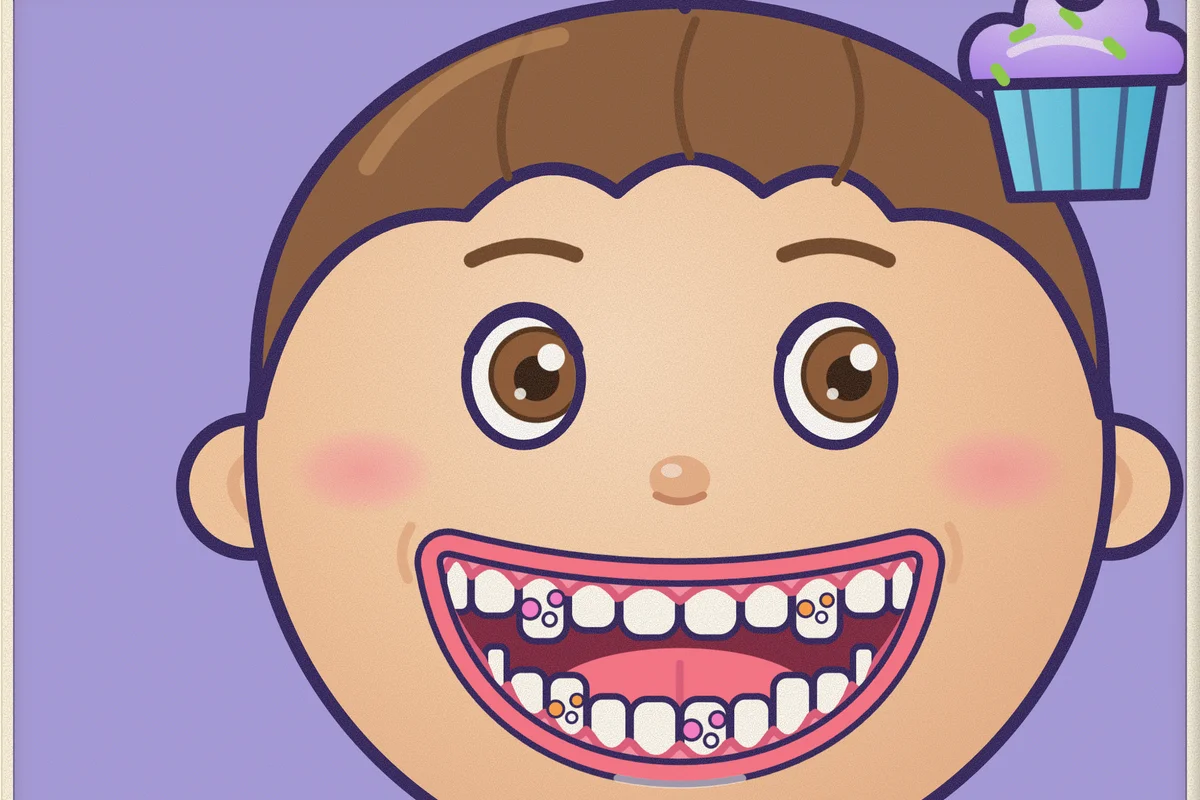
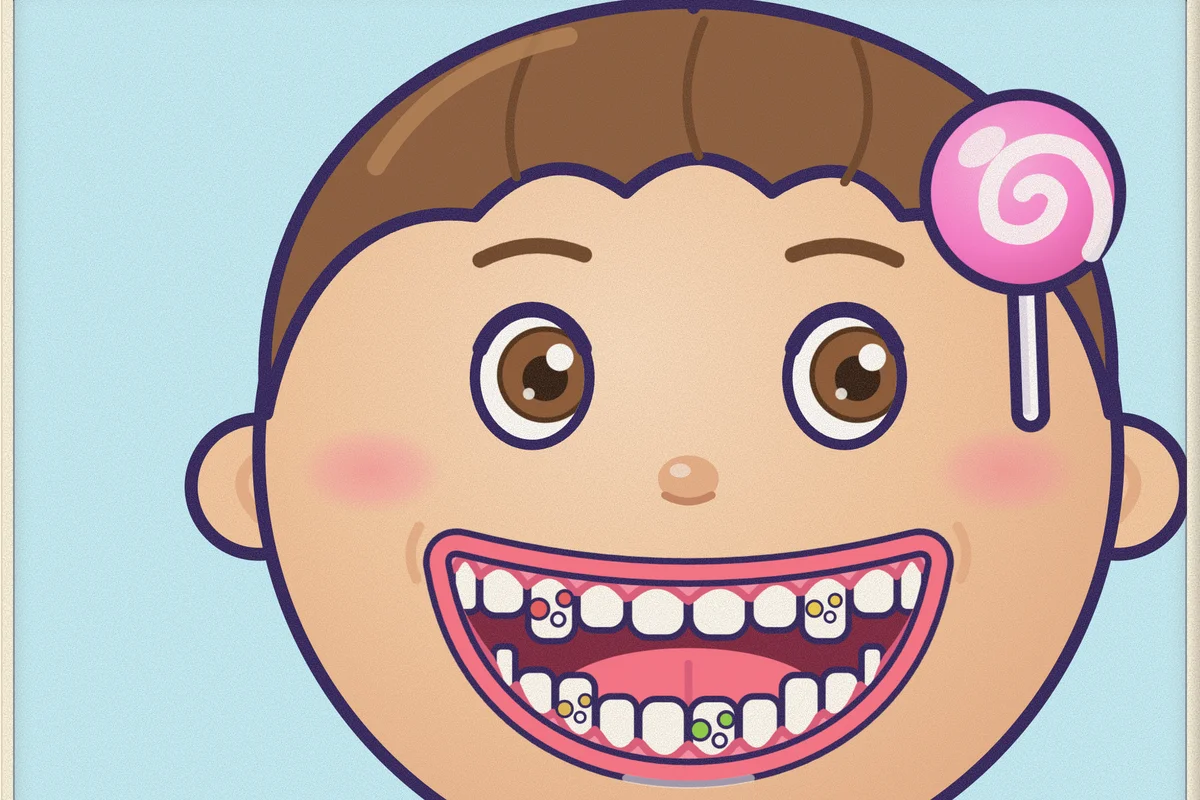
Zähne putzen: the apple, banana and lollipop appear whole, never cut off at the screen's edge

diff --git a/src/games/teeth/origin.tsx b/src/games/teeth/origin.tsx
@@ -7,7 +7,7 @@ import type { Daytime } from "@/lib/days";
 import { clothesOf, PyjamaPattern, topFill } from "./clothes";
 import { PICTURE, TOOTH_ARCS } from "./jaw";
 import { BROW, Ear, EyeBall, EyeLid, eyeOpening, FACE, HAIR, Hair, type HeadMap, INK, Iris, LASHES, LIP, Nose, SKIN_SHADE, SkinGradient } from "./face";
-import { fitBox, FRAME_CLIP, FrameStroke, Monster, screenFrame, STAIN, STAIN_FILLS, useRoom, type Box } from "./mouth";
+import { fitBox, FRAME_CLIP, FrameStroke, Monster, screenFrame, STAIN, STAIN_FILLS, useRoom, type Box, type Room } from "./mouth";
 import { Piece, pictureSpace } from "./piece";
 
 // Before anything else, a short story of where the sugar monsters come from:
@@ -34,7 +34,7 @@ export const ORIGIN_MS: Record<OriginPart, number> = { sweets: 9600, grow: 6000 
 const { width: W } = PICTURE;
 /**
  * How the story is framed before the camera moves in on the mouth: what has to fit between heading and controls (the
- * screen shows more sky round it) and where the sweets appear. On a screen not much wider than tall the whole head fits with the sweets in the corners above it; on a
+ * screen shows more sky round it) and where the sweets appear. On a screen not much wider than tall the whole head fits with the sweets beside its top; on a
  * wide one (a phone on its side) the face from the brows to the chin, the sweets beside it at eye level, so the face and
  * its mouth show bigger (user feedback, November 2026: the mouth should show bigger).
  */
@@ -44,10 +44,11 @@ interface Framing {
 }
 const HEAD_FRAMING: Framing = {
   focus: { x: 40, y: 34, width: 360, height: 340 },
+  // Out beside the head's top, as far as the screen shows them whole (`sweetPlace` moves them in where it is narrower).
   sweets: [
-    { x: 372, y: 78 },
-    { x: 68, y: 78 },
-    { x: 372, y: 78 },
+    { x: 440, y: 110 },
+    { x: 0, y: 110 },
+    { x: 440, y: 110 },
   ],
 };
 const FACE_FRAMING: Framing = {
@@ -60,8 +61,33 @@ const FACE_FRAMING: Framing = {
 };
 /** Both framings, for the tests. */
 export const FRAMINGS = { head: HEAD_FRAMING, face: FACE_FRAMING };
+/**
+ * How far a sweet reaches round its point while it is seen there, in picture units: grown to 1.5, floating up, turned,
+ * and lifted before it flies (`teeth-origin-sweet`) – the widest of the apple, the banana and the lollipop.
+ */
+export const SWEET_REACH = { left: 56, right: 56, up: 82, down: 88 };
+/** Room kept between a sweet and the edge of the free room, in screen px: the mirror's frame lies there (`FRAME_PX`). */
+const SWEET_EDGE_PX = 24;
+/**
+ * Where a sweet appears: its framing's point, moved in just as far as needed for the whole sweet to show inside the free
+ * room (`seen`, picture units) – it once appeared half cut off by the screen's edge (user feedback, November 2026).
+ */
+export function sweetPlace(want: { x: number; y: number }, seen: Box, unit: number) {
+  const edge = SWEET_EDGE_PX * unit;
+  const fit = (at: number, from: number, to: number) => (from > to ? (from + to) / 2 : Math.min(Math.max(at, from), to));
+  return {
+    x: fit(want.x, seen.x + edge + SWEET_REACH.left, seen.x + seen.width - edge - SWEET_REACH.right),
+    y: fit(want.y, seen.y + edge + SWEET_REACH.up, seen.y + seen.height - edge - SWEET_REACH.down),
+  };
+}
+/** The free room between heading and controls in picture units, for a picture showing `box` at `unit`. */
+export function freeSeen(room: Room | null, box: Box, unit: number): Box {
+  if (!room) return box;
+  const { free } = room;
+  return { x: box.x + free.x * unit, y: box.y + free.y * unit, width: free.width * unit, height: free.height * unit };
+}
 /** The face's framing where it shows the picture clearly bigger than the head's, else the head's. */
-function framingFor(room: Parameters<typeof fitBox>[0]) {
+export function framingFor(room: Parameters<typeof fitBox>[0]) {
   const [face, head] = [fitBox(room, FACE_FRAMING.focus), fitBox(room, HEAD_FRAMING.focus)];
   return face.unit * 1.05 < head.unit ? { framing: FACE_FRAMING, ...face } : { framing: HEAD_FRAMING, ...head };
 }
@@ -575,6 +601,8 @@ export function Origin({
   const scene = useRef<HTMLDivElement>(null);
   const room = useRoom(scene, free);
   const { framing, box, unit } = framingFor(room);
+  const seen = freeSeen(room, box, unit);
+  const places = framing.sweets.map((want) => sweetPlace(want, seen, unit));
   const frame = screenFrame(box, unit);
   const bottom = box.y + box.height;
   const sweets = part === "sweets";
@@ -837,7 +865,7 @@ export function Origin({
             })}
           </Piece>
 
-          {/* Each sweet appears big in a top corner, floats a moment, then flies into the mouth in an arc: it lifts a
+          {/* Each sweet appears big beside the face (`sweetPlace` keeps it whole on the screen), floats a moment, then flies into the mouth in an arc: it lifts a
               little and swoops down, turning towards where it goes, and is squeezed as the teeth bite (`teeth-origin-sweet`).
               Its pieces lie round the picture's corner (0, 0), where the sweet is drawn and from where the keyframes
               move it: the outer one across (`-x`), the inner one up and down, so the two make the arc. */}
@@ -850,11 +878,11 @@ export function Origin({
                 style={
                   {
                     "--arrive": `${ARRIVE_MS[i]}ms`,
-                    "--sx": `${framing.sweets[i].x}px`,
-                    "--sy": `${framing.sweets[i].y}px`,
+                    "--sx": `${places[i].x.toFixed(1)}px`,
+                    "--sy": `${places[i].y.toFixed(1)}px`,
                     "--bx": `${BITE.x}px`,
                     "--by": `${BITE.y}px`,
-                    "--tilt": `${framing.sweets[i].x > W / 2 ? -18 : 18}deg`,
+                    "--tilt": `${places[i].x > W / 2 ? -18 : 18}deg`,
                   } as CSSProperties
                 }
                 over={

diff --git a/src/games/teeth/story.test.ts b/src/games/teeth/story.test.ts
@@ -1,7 +1,8 @@
 import { describe, expect, test } from "bun:test";
 import { TEETH_PER_SIDE } from "./jaw";
 import { PRELUDE_TEXTS } from "./lines";
-import { FRAMINGS, MOUTH, STORY_TEETH } from "./origin";
+import { FACE } from "./face";
+import { FRAMINGS, framingFor, freeSeen, HEAD, MOUTH, STORY_TEETH, SWEET_REACH, sweetPlace } from "./origin";
 
 // The story's mouth once showed six teeth above and four below, and the face stood small in the middle of a wide
 // screen (user feedback, November 2026: show the right number of teeth and the mouth bigger).
@@ -30,12 +31,33 @@ describe("the story's teeth", () => {
 });
 
 describe("the story's framings", () => {
-  test.each(Object.entries(FRAMINGS))("%s: every sweet appears inside what is framed", (_, { focus, sweets }) => {
-    for (const { x, y } of sweets) {
-      expect(x).toBeGreaterThanOrEqual(focus.x);
-      expect(x).toBeLessThanOrEqual(focus.x + focus.width);
-      expect(y).toBeGreaterThanOrEqual(focus.y);
-      expect(y).toBeLessThanOrEqual(focus.y + focus.height);
+  // A sweet grows to one and a half times its size where it appears, and once stood so near the screen's edge that it
+  // was cut off there (user feedback, November 2026): it appears whole, inside the free room and clear of the frame.
+  // The free rooms are the ones measured in the preview (beside the controls' strip, or above it held upright).
+  const screens = {
+    "phone 844×390": { width: 844, height: 390, free: { x: 111, y: 10, width: 727, height: 370 } },
+    "tablet 1024×768": { width: 1024, height: 768, free: { x: 156, y: 10, width: 862, height: 748 } },
+    "computer 1280×720": { width: 1280, height: 720, free: { x: 150, y: 10, width: 1124, height: 700 } },
+    "computer 1920×1080": { width: 1920, height: 1080, free: { x: 190, y: 10, width: 1724, height: 1060 } },
+    "upright 390×844": { width: 390, height: 844, free: { x: 6, y: 10, width: 378, height: 740 } },
+  };
+  test.each(Object.entries(screens))("%s: every sweet appears whole, never at the screen's edge", (name, room) => {
+    const { framing, box, unit } = framingFor(room);
+    const seen = freeSeen(room, box, unit);
+    for (const want of framing.sweets) {
+      const at = sweetPlace(want, seen, unit);
+      const edge = 20 * unit;
+      expect(at.x - SWEET_REACH.left).toBeGreaterThanOrEqual(seen.x + edge);
+      expect(at.x + SWEET_REACH.right).toBeLessThanOrEqual(seen.x + seen.width - edge);
+      expect(at.y - SWEET_REACH.up).toBeGreaterThanOrEqual(seen.y + edge);
+      expect(at.y + SWEET_REACH.down).toBeLessThanOrEqual(seen.y + seen.height - edge);
+      // Held sideways it stays clear of the child's eyes: its round body (about 45 units across its middle at its
+      // biggest) never reaches an eye.
+      if (name.startsWith("upright")) continue;
+      for (const s of [-1, 1]) {
+        const eye = { x: HEAD.x + s * FACE.eyes.x, y: HEAD.y + FACE.eyes.y };
+        expect(Math.hypot(at.x - eye.x, at.y - eye.y)).toBeGreaterThan(45 + FACE.eyes.ry);
+      }
     }
   });
 

diff --git a/src/games/teeth/CLAUDE.md b/src/games/teeth/CLAUDE.md
@@ -2,7 +2,7 @@
 
 Route `/zaehne/`.
 
-Brushing timer in seven steps, as long as its song (no choice of minutes: the song's own length, about two minutes), in KAI order (chewing surfaces, outside, inside). It starts with a short story of where the sugar monsters come from (`origin.tsx`, about 15 s, can be turned off): a child's face fills the screen (on a wide one from the brows to the chin, `framingFor`), a red apple, a half-peeled banana and a lollipop (the same at any time of day, user request, November 2026: everyday food leaves sugar too, X-19) float big beside it or in the corners for a moment, then fly in an arc into the smiling mouth one by one, are bitten (a few bits break off and fall past the chin), chewed and leave sugar crumbs on the teeth, then each crumb grows into a monster („Aus dem Zucker wachsen kleine Zuckermonster.“, `PRELUDE_TEXTS.grow` – the same morning and evening: no sun or moon crosses the sky and the sky keeps its one calm colour, so the story says nothing of day or night, user request, November 2026), and the camera moves in from the head to the mouth (`.origin-camera`, a CSS zoom to `MOUTH_FOCUS`). The story's teeth stand in a scalloped gum too. The story, the sink and the mirror are one camera looking round the bathroom (`scenes.tsx`): from the face down to the sink, up into the mirror, and down again to tidy up – the old picture slides out while the new one slides in, never a cut. The child is happy about every sweet: its eyes follow it to its corner and down into the mouth, its brows go up; while it chews its eyes close happily and its cheeks glow. Then the sink (`prep.tsx`, can be turned off): a hand on a sleeve widening towards the viewer, coming up open and closing round the handle (its wrist turned against the brush, so the arm always comes up from below and in front of the basin, never out of it) takes the brush (white and blue tufts, rubber grip) out of its cup (it clinks), the tube squeezes a pea-sized, striped dab of toothpaste onto the middle of the bristles; a chrome tap stands behind the basin. The sounds of the story and the sink are `Cue`s (`ORIGIN_CUES`, `PREP_CUES`, ms from the start of their part, `cues.ts`) that `TeethPlay` plays when the clock passes them and skips on a jump: a cheer (`yay`) when the food comes, the apple's crunch, a soft bite (`munch`) into the banana, the lollipop's crunch (`lolly`), `chew` after each, „Mmmh“ (`yum`) after the last, the brush `clink`ing in its cup – CC0 recordings in `src/lib/sounds/` with a synth fallback, loaded before the prelude. `prelude.test.ts` checks every cue lies inside its part and every recording has its file. A small 3D mouth model (`jaw.ts`) shows each step from the right angle – mouth open or teeth together, head turned to the side, the jaw being brushed tipped to show its top or tongue side. Arrows on the lips show when to open or close the mouth. Right after the toothpaste, before the mirror is seen, comes the lion (X-26, `lion.tsx`, one scene of twelve bars in two phases of the bar; user requests, November 2026). First the lion's phase (prelude part `lion`, two bars): the camera fades to a lion (drawn in SVG for now, a painted one may replace it) close up, then draws back to the story's child beside it (`StoryHead`, `StoryShoulders` in `storyChild.tsx`, the same child the spitting shows), about as big as the lion and already in its lion costume – the mane is on from the start. Then the roaring's phase (prelude part `roar`, ten bars): the voice asks the child to roar along („Now roar with the lion! Really loud – three times!“, `PRELUDE_TEXTS.roar`), and three round marks appear in the sky between the two heads (`MARKS`), pale rings with a faint lion's face – how often. Then three rounds (`ROUNDS`): the next mark fills from its middle over four beats, a soft note on each (`playCountNote`), and when it is full both mouths are wide open and both roar together (`ROAR_CUES`), the mark turns into a lit roaring lion's face and stays lit, and soft waves go out from both mouths – when; no numbers are counted down. Each round is louder (`gain`) and a little longer (`open`, and its own longer recordings) than the one before. The six roars – the lion's and the child's of each round, `lion-roar-1…3` and `child-roar-1…3` – are ElevenLabs sound effects (made 27 November 2026, `src/lib/sounds/README.md`: the lion's at about −18 LUFS, the child's a little under at −20, each round's as long as its mouths stay open), played at the round's loudness (`playRecorded`'s `volume`); the synthesized `playRoar` and `playLittleRoar` sound only where a recording could not load. After the last roar the child's mouth stays open. Only then the mirror (prelude part `monsters`, nine beats plus the 3, 2, 1): the mouth is already wide open from the front (`ROAR_VIEW` in `steps.ts`), the sugar monsters on the teeth and the voice's „Oh no, there they are!“, with no arrows on the lips, and it stays open through the countdown, so the first step, also open, only tips the lower jaw – the child in front of the screen roars along and its mouth is open before the brush comes. A song loading late is waited for before the lion (`waitAt`), so lion, roaring, mirror, 3, 2, 1 and the song run straight on. The teeth grow out of the gum: the gum line (`GUM_LINE` in `jaw.ts`) rises into a papilla between neighbouring teeth and arches down over each crown, each tooth's faces end there, and the gum's walls reach a little over the crown's foot (`GUM_OVERLAP`) with a darker rim (`GUM_RIM`); each tooth is drawn between its own piece of gum's top and its walls, so it stands in the gum. The gum's cheek-side wall reaches far past the lips (`GUM_CHEEK`), which cut it off, and the mouth's inside round the teeth is the gum's own pink (`CHEEK_INSIDE` in `mouth.tsx`), so the gum runs on into the cheek right up to the lips: the dark of the mouth (`MOUTH_DARK`) shows only in the opening between the rows of an open mouth (`cavityPath`). The brush is a small 3D model too (`brush.tsx`: white and light-blue bristle tufts with a longer tip row, a rounded head, a thin neck, a green rubber grip; its foam grows over the first half minute, and the gum round the teeth brushed foams too: see the rule on toothpaste foam), held as dentists teach it for each side (flat on the chewing surfaces, in the cheek pocket with the handle out of the corner of the mouth, tipped towards the gum inside) and glides along the row scrubbing, circling or wiping from gum to tooth. The brush is a layer of its own above the mirror (`.brush-layer`, an HTML layer with its own svg): React draws it only when it reaches the next tooth or turns, and the scrubbing, circling and wiping are CSS animations of that layer (`brush-swing`, `brush-wipe`), so a phone only moves a finished picture. There is no text on the picture at all, before, while or after brushing: only the picture, the controls (pause, „Von vorn“ – drawn signs, `ControlIcon`), the progress bar and the time right next to it (`.teeth-time`, hidden on narrow screens), all on one slim, quiet strip of paper (`.teeth-controls`), the part running now bigger with a golden ring: on a screen wider than tall it stands along the left edge under the ✕ with the bar running from top to bottom (`seekFromPointer` reads the bar's direction), so the mouth gets the whole height beside it; only held upright it lies along the bottom. The progress bar shows the routine's six phases apart (user feedback, November 2026), each with its symbol beside it: eating sweets (the story, lilac, the sweet), getting the brush with its toothpaste (the sink, blue, the tube), the lion (orange, the painted lion's head `loewe`), roaring with it (orange, the painted roaring lion `bruellen`; the open mouth in the mirror with the monsters and its 3, 2, 1 belong to it), the brushing itself – its seven steps in a green frame of their own (`.teeth-brushing`), the toothbrush riding along them to the clean tooth at its end – and putting the brush away (cheer and tidying up, blue like the sink, the cup) (`preludeTiles`). On a screen wider than tall the two buttons stand side by side on top, the symbols in one column left of the bar, the grooves in one lane. The time before the brushing has a clock of its own in the same place: while it runs the time shows how long until the brushing starts (lilac pill), then the brushing time left. Sugar monsters sit on every tooth not brushed yet (only where the lip opening shows the tooth, see `insideBy` in `jaw.ts`), from the first look in the mirror, after the lion; the ones to brush now dance like jelly to the song (`teeth-monster-jelly`: squashed on each beat), the next one ducks and shivers (`teeth-monster-cower`), and each dissolves as the brush reaches it: for a beat squeezed flat under the brush so it bulges out past the head on both sides (`squeezedBy`), then stretched upwards, blurring and fading, while it falls apart from the top down into sugar grains in its colour and foam bubbles that drift off and melt (`MonsterDust`, `teeth-monster-dissolve`, `teeth-dust`, three beats each), silently: only the song plays while brushing. The mirror (and the story and the sink before it) fills the whole screen behind the heading and the controls: `useRoom` measures `.teeth-room`, the free part between them, and `fitBox` (`mouth.tsx`) zooms so what matters just fits there and the rest of the screen shows more face or wall around it. For the mouth that is the lips with the arrows on them (`mouthFocus`), taken from the view of the moment, so a closed mouth or one seen from the side zooms in as far as an open one; the frame keeps its thickness in px. The song always plays, no tapping needed, keeps the screen on; arrow keys skip parts (on the dev server ← and → jump five seconds back or on instead, held too, anywhere in the game: `DEV_SKIP_MS`, user request, November 2026; ↑ and ↓ still skip parts), Space, the pause button next to the progress bar or a tap anywhere on the picture pauses (a tapped monster only giggles; user request, November 2026), „Von vorn“ beside it starts again from the story, and tapping or dragging on the progress bar jumps to the start of the section under the finger – a part of the prelude, a step, or the end's cheer, spitting and tidying (`sectionStart` in `seekBar.ts`; also while paused; the bar sits above the pause screen). At the end (`Ending` in `TeethPlay.tsx`) it is unmistakable that the brushing is done: the camera draws back to the whole laughing head (`faceFocus`, blended from the lips by `blendBox`), its teeth shining bright with white glints coming and going on them, a fanfare and children cheering (`cheer`) for two bars; then the mirror shows the child leaning over the basin (`spit.tsx`, X-18, two bars): its lips purse, a blob of the foam falls into the basin with a soft „ptü“ (`playSpit`, `SPIT_CUES`) and lands there as a flat splat, the foam on the gum gone with it – no cup of water to rinse the mouth, since the fluoride should stay on the teeth; then the sink once more (`Prep` part `tidy`, 16 beats): the foamy brush is scrubbed under the running tap until the foam is gone, goes back into its cup with a rattle and a clink, and the hand lets go, with twinkles round the cup (`PREP_CUES.tidy`, played by the end's clock like the prelude's); the controls and the bar stay through the cheer, the spitting and the tidying, the bar's last phase, so a grown-up can jump there too; then the grin again with the daytime's goodbye (spoken), the week chart's new star and the buttons, on a sheet of paper of their own (`.teeth-end`: the week above the trophy and „Menü“, everything on it sized by the sheet's width, `cqw`) – on a wide screen the head fills the left half and the sheet stands on the right, held upright it lies under the head – nothing else beside them (a cheering fox family stood there and was taken out, decoration a child wanted to tap, user feedback, November 2026). → skips to the buttons, Space starts again. The book on the shelf starts the brushing at once, with no start screen – its clock stands at the start (`held`, not paused) until the book lies open (`usePageStill`); ✕ and Esc go back to the shelf. Settings (`tinytaps.teeth.v3`) are which phases of the bar are shown – eating sweets (`origin`), getting the brush (`prep`) and putting it away (`tidy`: the spitting, rinsing and putting back), each switched on its own, the brushing to the song always (a locked row, roaring like a lion and 3, 2, 1 with it) – and the week chart, changed while playing behind ⚙ at the end of the strip of controls, right by the bar (`PlayOptions inline`, held like ✕; user request, November 2026). The phases before the brushing are taken at the start of each brushing so the clock never jumps: switched while that prelude still runs, the brushing starts again with them, later they apply to the next one; putting the brush away follows the switch until the brushing is done. Left out, the cheer at the clean grin still comes, ending the brushing's frame at its clean tooth, and then the buttons. Sounds always play and there is no read aloud (root `CLAUDE.md`).
+Brushing timer in seven steps, as long as its song (no choice of minutes: the song's own length, about two minutes), in KAI order (chewing surfaces, outside, inside). It starts with a short story of where the sugar monsters come from (`origin.tsx`, about 15 s, can be turned off): a child's face fills the screen (on a wide one from the brows to the chin, `framingFor`), a red apple, a half-peeled banana and a lollipop (the same at any time of day, user request, November 2026: everyday food leaves sugar too, X-19) float big beside it for a moment, always whole on the screen (`sweetPlace`), then fly in an arc into the smiling mouth one by one, are bitten (a few bits break off and fall past the chin), chewed and leave sugar crumbs on the teeth, then each crumb grows into a monster („Aus dem Zucker wachsen kleine Zuckermonster.“, `PRELUDE_TEXTS.grow` – the same morning and evening: no sun or moon crosses the sky and the sky keeps its one calm colour, so the story says nothing of day or night, user request, November 2026), and the camera moves in from the head to the mouth (`.origin-camera`, a CSS zoom to `MOUTH_FOCUS`). The story's teeth stand in a scalloped gum too. The story, the sink and the mirror are one camera looking round the bathroom (`scenes.tsx`): from the face down to the sink, up into the mirror, and down again to tidy up – the old picture slides out while the new one slides in, never a cut. The child is happy about every sweet: its eyes follow it to its corner and down into the mouth, its brows go up; while it chews its eyes close happily and its cheeks glow. Then the sink (`prep.tsx`, can be turned off): a hand on a sleeve widening towards the viewer, coming up open and closing round the handle (its wrist turned against the brush, so the arm always comes up from below and in front of the basin, never out of it) takes the brush (white and blue tufts, rubber grip) out of its cup (it clinks), the tube squeezes a pea-sized, striped dab of toothpaste onto the middle of the bristles; a chrome tap stands behind the basin. The sounds of the story and the sink are `Cue`s (`ORIGIN_CUES`, `PREP_CUES`, ms from the start of their part, `cues.ts`) that `TeethPlay` plays when the clock passes them and skips on a jump: a cheer (`yay`) when the food comes, the apple's crunch, a soft bite (`munch`) into the banana, the lollipop's crunch (`lolly`), `chew` after each, „Mmmh“ (`yum`) after the last, the brush `clink`ing in its cup – CC0 recordings in `src/lib/sounds/` with a synth fallback, loaded before the prelude. `prelude.test.ts` checks every cue lies inside its part and every recording has its file. A small 3D mouth model (`jaw.ts`) shows each step from the right angle – mouth open or teeth together, head turned to the side, the jaw being brushed tipped to show its top or tongue side. Arrows on the lips show when to open or close the mouth. Right after the toothpaste, before the mirror is seen, comes the lion (X-26, `lion.tsx`, one scene of twelve bars in two phases of the bar; user requests, November 2026). First the lion's phase (prelude part `lion`, two bars): the camera fades to a lion (drawn in SVG for now, a painted one may replace it) close up, then draws back to the story's child beside it (`StoryHead`, `StoryShoulders` in `storyChild.tsx`, the same child the spitting shows), about as big as the lion and already in its lion costume – the mane is on from the start. Then the roaring's phase (prelude part `roar`, ten bars): the voice asks the child to roar along („Now roar with the lion! Really loud – three times!“, `PRELUDE_TEXTS.roar`), and three round marks appear in the sky between the two heads (`MARKS`), pale rings with a faint lion's face – how often. Then three rounds (`ROUNDS`): the next mark fills from its middle over four beats, a soft note on each (`playCountNote`), and when it is full both mouths are wide open and both roar together (`ROAR_CUES`), the mark turns into a lit roaring lion's face and stays lit, and soft waves go out from both mouths – when; no numbers are counted down. Each round is louder (`gain`) and a little longer (`open`, and its own longer recordings) than the one before. The six roars – the lion's and the child's of each round, `lion-roar-1…3` and `child-roar-1…3` – are ElevenLabs sound effects (made 27 November 2026, `src/lib/sounds/README.md`: the lion's at about −18 LUFS, the child's a little under at −20, each round's as long as its mouths stay open), played at the round's loudness (`playRecorded`'s `volume`); the synthesized `playRoar` and `playLittleRoar` sound only where a recording could not load. After the last roar the child's mouth stays open. Only then the mirror (prelude part `monsters`, nine beats plus the 3, 2, 1): the mouth is already wide open from the front (`ROAR_VIEW` in `steps.ts`), the sugar monsters on the teeth and the voice's „Oh no, there they are!“, with no arrows on the lips, and it stays open through the countdown, so the first step, also open, only tips the lower jaw – the child in front of the screen roars along and its mouth is open before the brush comes. A song loading late is waited for before the lion (`waitAt`), so lion, roaring, mirror, 3, 2, 1 and the song run straight on. The teeth grow out of the gum: the gum line (`GUM_LINE` in `jaw.ts`) rises into a papilla between neighbouring teeth and arches down over each crown, each tooth's faces end there, and the gum's walls reach a little over the crown's foot (`GUM_OVERLAP`) with a darker rim (`GUM_RIM`); each tooth is drawn between its own piece of gum's top and its walls, so it stands in the gum. The gum's cheek-side wall reaches far past the lips (`GUM_CHEEK`), which cut it off, and the mouth's inside round the teeth is the gum's own pink (`CHEEK_INSIDE` in `mouth.tsx`), so the gum runs on into the cheek right up to the lips: the dark of the mouth (`MOUTH_DARK`) shows only in the opening between the rows of an open mouth (`cavityPath`). The brush is a small 3D model too (`brush.tsx`: white and light-blue bristle tufts with a longer tip row, a rounded head, a thin neck, a green rubber grip; its foam grows over the first half minute, and the gum round the teeth brushed foams too: see the rule on toothpaste foam), held as dentists teach it for each side (flat on the chewing surfaces, in the cheek pocket with the handle out of the corner of the mouth, tipped towards the gum inside) and glides along the row scrubbing, circling or wiping from gum to tooth. The brush is a layer of its own above the mirror (`.brush-layer`, an HTML layer with its own svg): React draws it only when it reaches the next tooth or turns, and the scrubbing, circling and wiping are CSS animations of that layer (`brush-swing`, `brush-wipe`), so a phone only moves a finished picture. There is no text on the picture at all, before, while or after brushing: only the picture, the controls (pause, „Von vorn“ – drawn signs, `ControlIcon`), the progress bar and the time right next to it (`.teeth-time`, hidden on narrow screens), all on one slim, quiet strip of paper (`.teeth-controls`), the part running now bigger with a golden ring: on a screen wider than tall it stands along the left edge under the ✕ with the bar running from top to bottom (`seekFromPointer` reads the bar's direction), so the mouth gets the whole height beside it; only held upright it lies along the bottom. The progress bar shows the routine's six phases apart (user feedback, November 2026), each with its symbol beside it: eating sweets (the story, lilac, the sweet), getting the brush with its toothpaste (the sink, blue, the tube), the lion (orange, the painted lion's head `loewe`), roaring with it (orange, the painted roaring lion `bruellen`; the open mouth in the mirror with the monsters and its 3, 2, 1 belong to it), the brushing itself – its seven steps in a green frame of their own (`.teeth-brushing`), the toothbrush riding along them to the clean tooth at its end – and putting the brush away (cheer and tidying up, blue like the sink, the cup) (`preludeTiles`). On a screen wider than tall the two buttons stand side by side on top, the symbols in one column left of the bar, the grooves in one lane. The time before the brushing has a clock of its own in the same place: while it runs the time shows how long until the brushing starts (lilac pill), then the brushing time left. Sugar monsters sit on every tooth not brushed yet (only where the lip opening shows the tooth, see `insideBy` in `jaw.ts`), from the first look in the mirror, after the lion; the ones to brush now dance like jelly to the song (`teeth-monster-jelly`: squashed on each beat), the next one ducks and shivers (`teeth-monster-cower`), and each dissolves as the brush reaches it: for a beat squeezed flat under the brush so it bulges out past the head on both sides (`squeezedBy`), then stretched upwards, blurring and fading, while it falls apart from the top down into sugar grains in its colour and foam bubbles that drift off and melt (`MonsterDust`, `teeth-monster-dissolve`, `teeth-dust`, three beats each), silently: only the song plays while brushing. The mirror (and the story and the sink before it) fills the whole screen behind the heading and the controls: `useRoom` measures `.teeth-room`, the free part between them, and `fitBox` (`mouth.tsx`) zooms so what matters just fits there and the rest of the screen shows more face or wall around it. For the mouth that is the lips with the arrows on them (`mouthFocus`), taken from the view of the moment, so a closed mouth or one seen from the side zooms in as far as an open one; the frame keeps its thickness in px. The song always plays, no tapping needed, keeps the screen on; arrow keys skip parts (on the dev server ← and → jump five seconds back or on instead, held too, anywhere in the game: `DEV_SKIP_MS`, user request, November 2026; ↑ and ↓ still skip parts), Space, the pause button next to the progress bar or a tap anywhere on the picture pauses (a tapped monster only giggles; user request, November 2026), „Von vorn“ beside it starts again from the story, and tapping or dragging on the progress bar jumps to the start of the section under the finger – a part of the prelude, a step, or the end's cheer, spitting and tidying (`sectionStart` in `seekBar.ts`; also while paused; the bar sits above the pause screen). At the end (`Ending` in `TeethPlay.tsx`) it is unmistakable that the brushing is done: the camera draws back to the whole laughing head (`faceFocus`, blended from the lips by `blendBox`), its teeth shining bright with white glints coming and going on them, a fanfare and children cheering (`cheer`) for two bars; then the mirror shows the child leaning over the basin (`spit.tsx`, X-18, two bars): its lips purse, a blob of the foam falls into the basin with a soft „ptü“ (`playSpit`, `SPIT_CUES`) and lands there as a flat splat, the foam on the gum gone with it – no cup of water to rinse the mouth, since the fluoride should stay on the teeth; then the sink once more (`Prep` part `tidy`, 16 beats): the foamy brush is scrubbed under the running tap until the foam is gone, goes back into its cup with a rattle and a clink, and the hand lets go, with twinkles round the cup (`PREP_CUES.tidy`, played by the end's clock like the prelude's); the controls and the bar stay through the cheer, the spitting and the tidying, the bar's last phase, so a grown-up can jump there too; then the grin again with the daytime's goodbye (spoken), the week chart's new star and the buttons, on a sheet of paper of their own (`.teeth-end`: the week above the trophy and „Menü“, everything on it sized by the sheet's width, `cqw`) – on a wide screen the head fills the left half and the sheet stands on the right, held upright it lies under the head – nothing else beside them (a cheering fox family stood there and was taken out, decoration a child wanted to tap, user feedback, November 2026). → skips to the buttons, Space starts again. The book on the shelf starts the brushing at once, with no start screen – its clock stands at the start (`held`, not paused) until the book lies open (`usePageStill`); ✕ and Esc go back to the shelf. Settings (`tinytaps.teeth.v3`) are which phases of the bar are shown – eating sweets (`origin`), getting the brush (`prep`) and putting it away (`tidy`: the spitting, rinsing and putting back), each switched on its own, the brushing to the song always (a locked row, roaring like a lion and 3, 2, 1 with it) – and the week chart, changed while playing behind ⚙ at the end of the strip of controls, right by the bar (`PlayOptions inline`, held like ✕; user request, November 2026). The phases before the brushing are taken at the start of each brushing so the clock never jumps: switched while that prelude still runs, the brushing starts again with them, later they apply to the next one; putting the brush away follows the switch until the brushing is done. Left out, the cheer at the clean grin still comes, ending the brushing's frame at its clean tooth, and then the buttons. Sounds always play and there is no read aloud (root `CLAUDE.md`).
 
 What the voice says before and after the brushing (`PRELUDE_TEXTS`, `DONE_SAY`, `TIDY_SAY`) is plain data in `lines.ts`, so src/content/recordedLines.ts reads it without the game's drawings; `TeethPlay` adds the prelude's timing and sounds (`PRELUDE`).
 
@@ -344,8 +344,15 @@ late in the video. A new thing shown beside the picture (a control, a chart, a b
   screen clearly wider than tall (a phone on its side, a computer) it frames the face from the brows to the chin, the
   sweets appearing beside it at cheek height
   (`FACE_FRAMING`); only where that would show the picture smaller (a tablet, upright) the whole head with the sweets
-  in the corners above it (`HEAD_FRAMING`, `framingFor`). The camera then moves in until the lips fill the height
+  beside its top (`HEAD_FRAMING`, `framingFor`). The camera then moves in until the lips fill the height
   (`MOUTH_FOCUS`). A new thing in the story has its place in both framings.
+- A sweet appears whole, never cut off by the screen's edge or lying under the frame or the controls (user feedback,
+  November 2026: growing to one and a half times its size beside the face, it stood half off the screen): its
+  framing's point is only where it would like to be, and `sweetPlace` moves it in just as far as its whole reach at
+  its biggest (`SWEET_REACH`: grown, floating, turned and lifted before it flies) needs to stay inside the free room
+  (`freeSeen`) with `SWEET_EDGE_PX` to spare. A sweet that grows bigger or moves further in its keyframes widens
+  `SWEET_REACH` with it. `story.test.ts` checks it on a phone, a tablet, computers and upright, and that held sideways
+  it stays clear of the eyes.
 - Animate only with keyframes this game defines (`teeth-…`) or the shared ones in `src/styles/animations.css` (`pop-in` …); another game's keyframes only exist after that game was opened (`css.test.ts` checks).
 - The song is the brushing, not background music: it sings the steps and sets how long they last, so it always plays, also when "🎵 Musik" is off, and there is no "plain music" or "no song" choice.
 - What the app already decides is never a setting here: the song's language is the app language (the language of the texts), sounds and voice are no switches at all (root `CLAUDE.md`), the daytime is the clock. Never add a second choice for the same thing.
